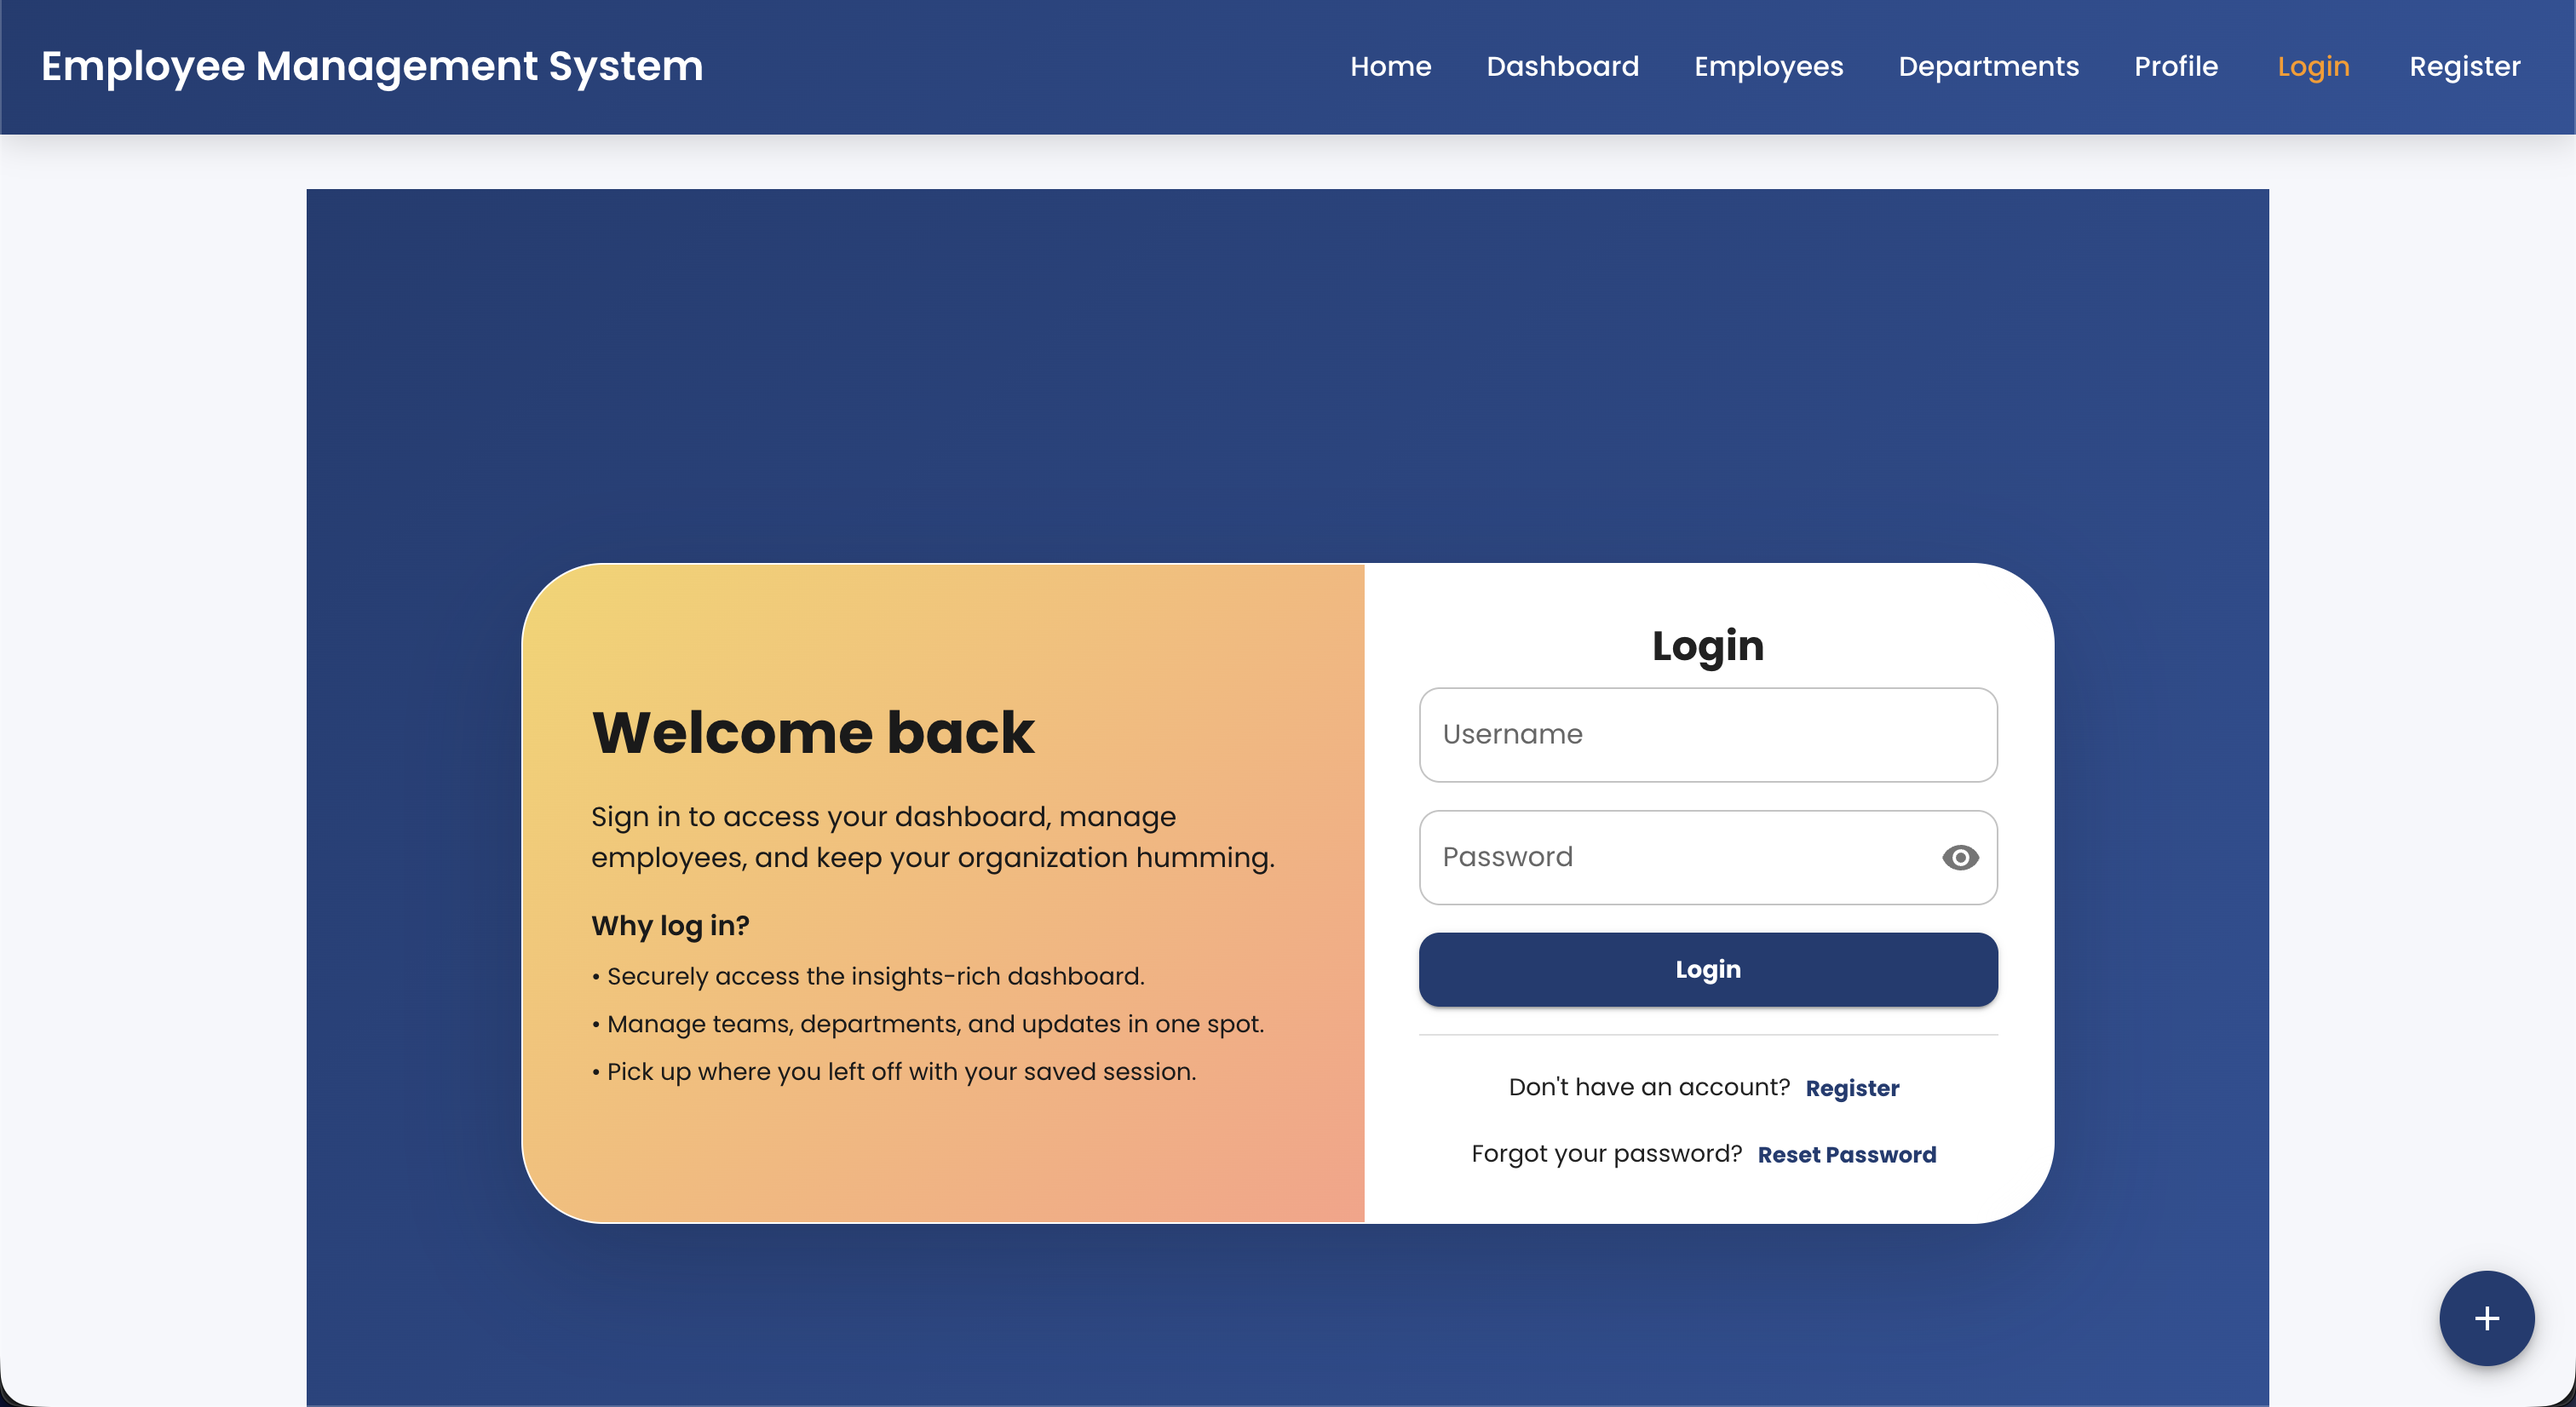
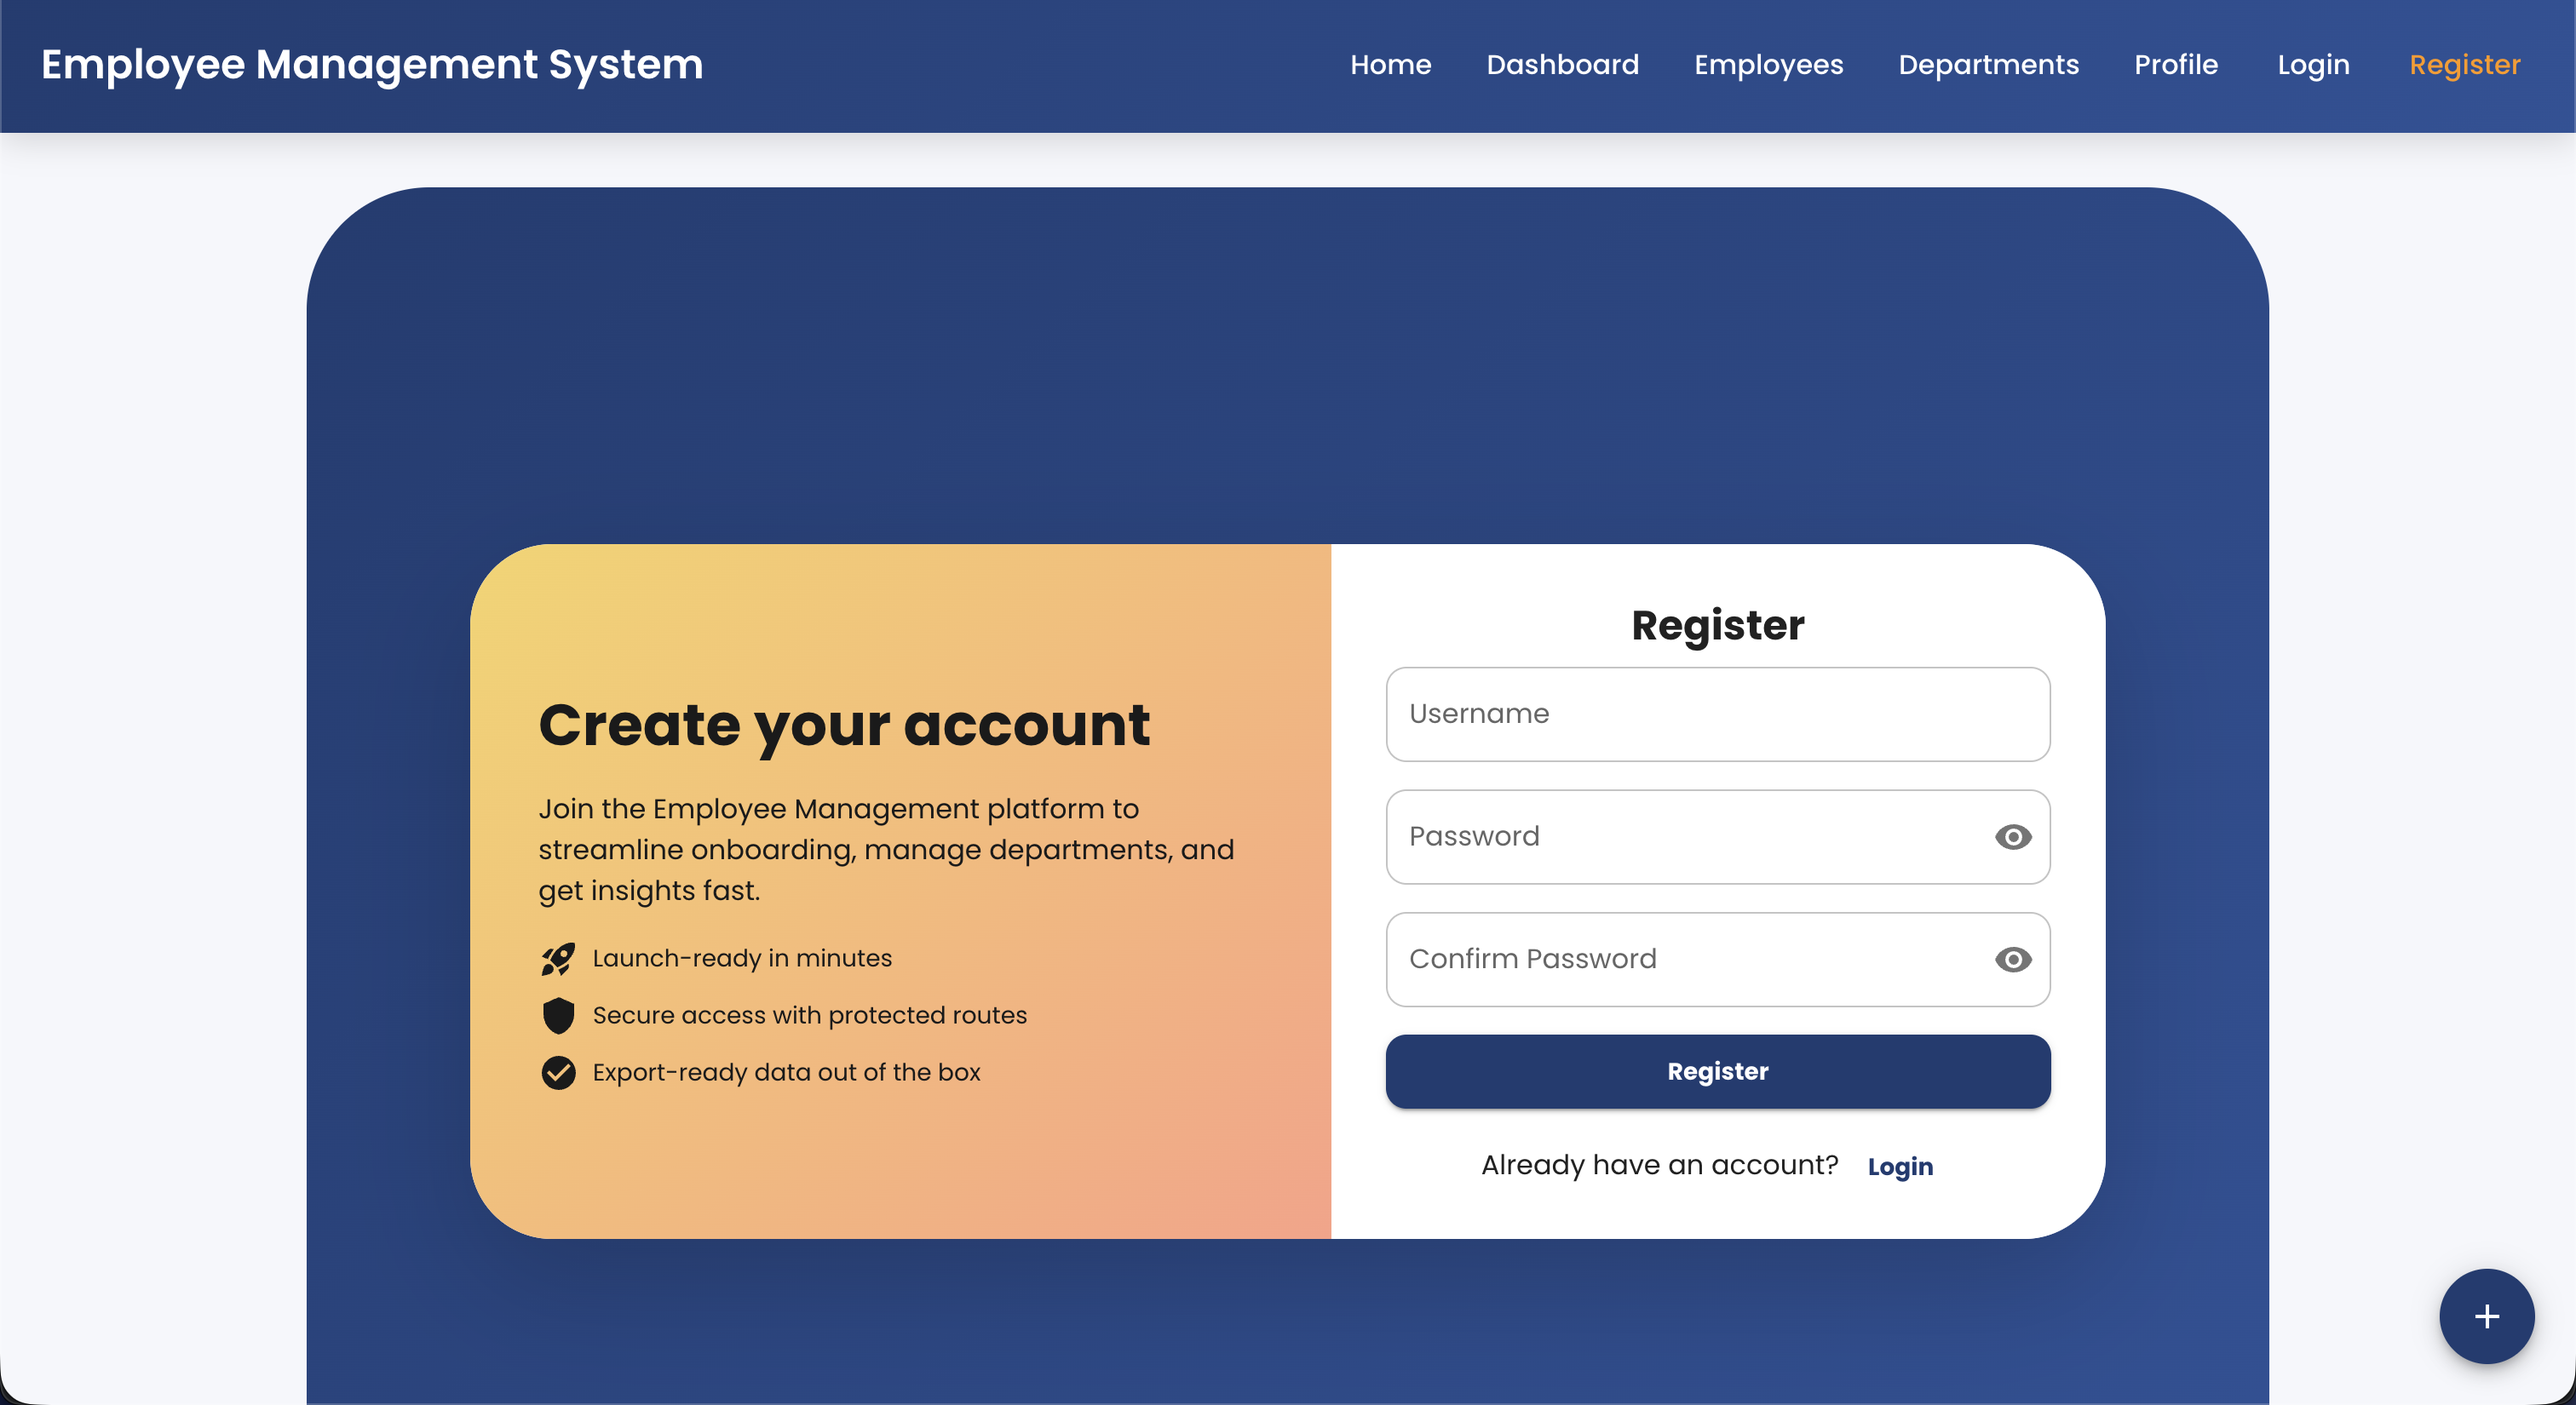
feat: add border radius to Login and Register components for improved UI

diff --git a/frontend/src/components/Login.js b/frontend/src/components/Login.js
@@ -79,6 +79,7 @@ const Login = () => {
         justifyContent: 'center',
         background: 'linear-gradient(135deg, #1E3C72 0%, #2A5298 100%)',
         padding: 2,
+        borderRadius: 6,
       }}
     >
       <Card

diff --git a/frontend/src/components/Register.js b/frontend/src/components/Register.js
@@ -86,6 +86,7 @@ const Register = () => {
         minHeight: '100vh',
         background: 'linear-gradient(135deg, #1E3C72 0%, #2A5298 100%)',
         padding: 2,
+        borderRadius: 6,
       }}
     >
       <Card
